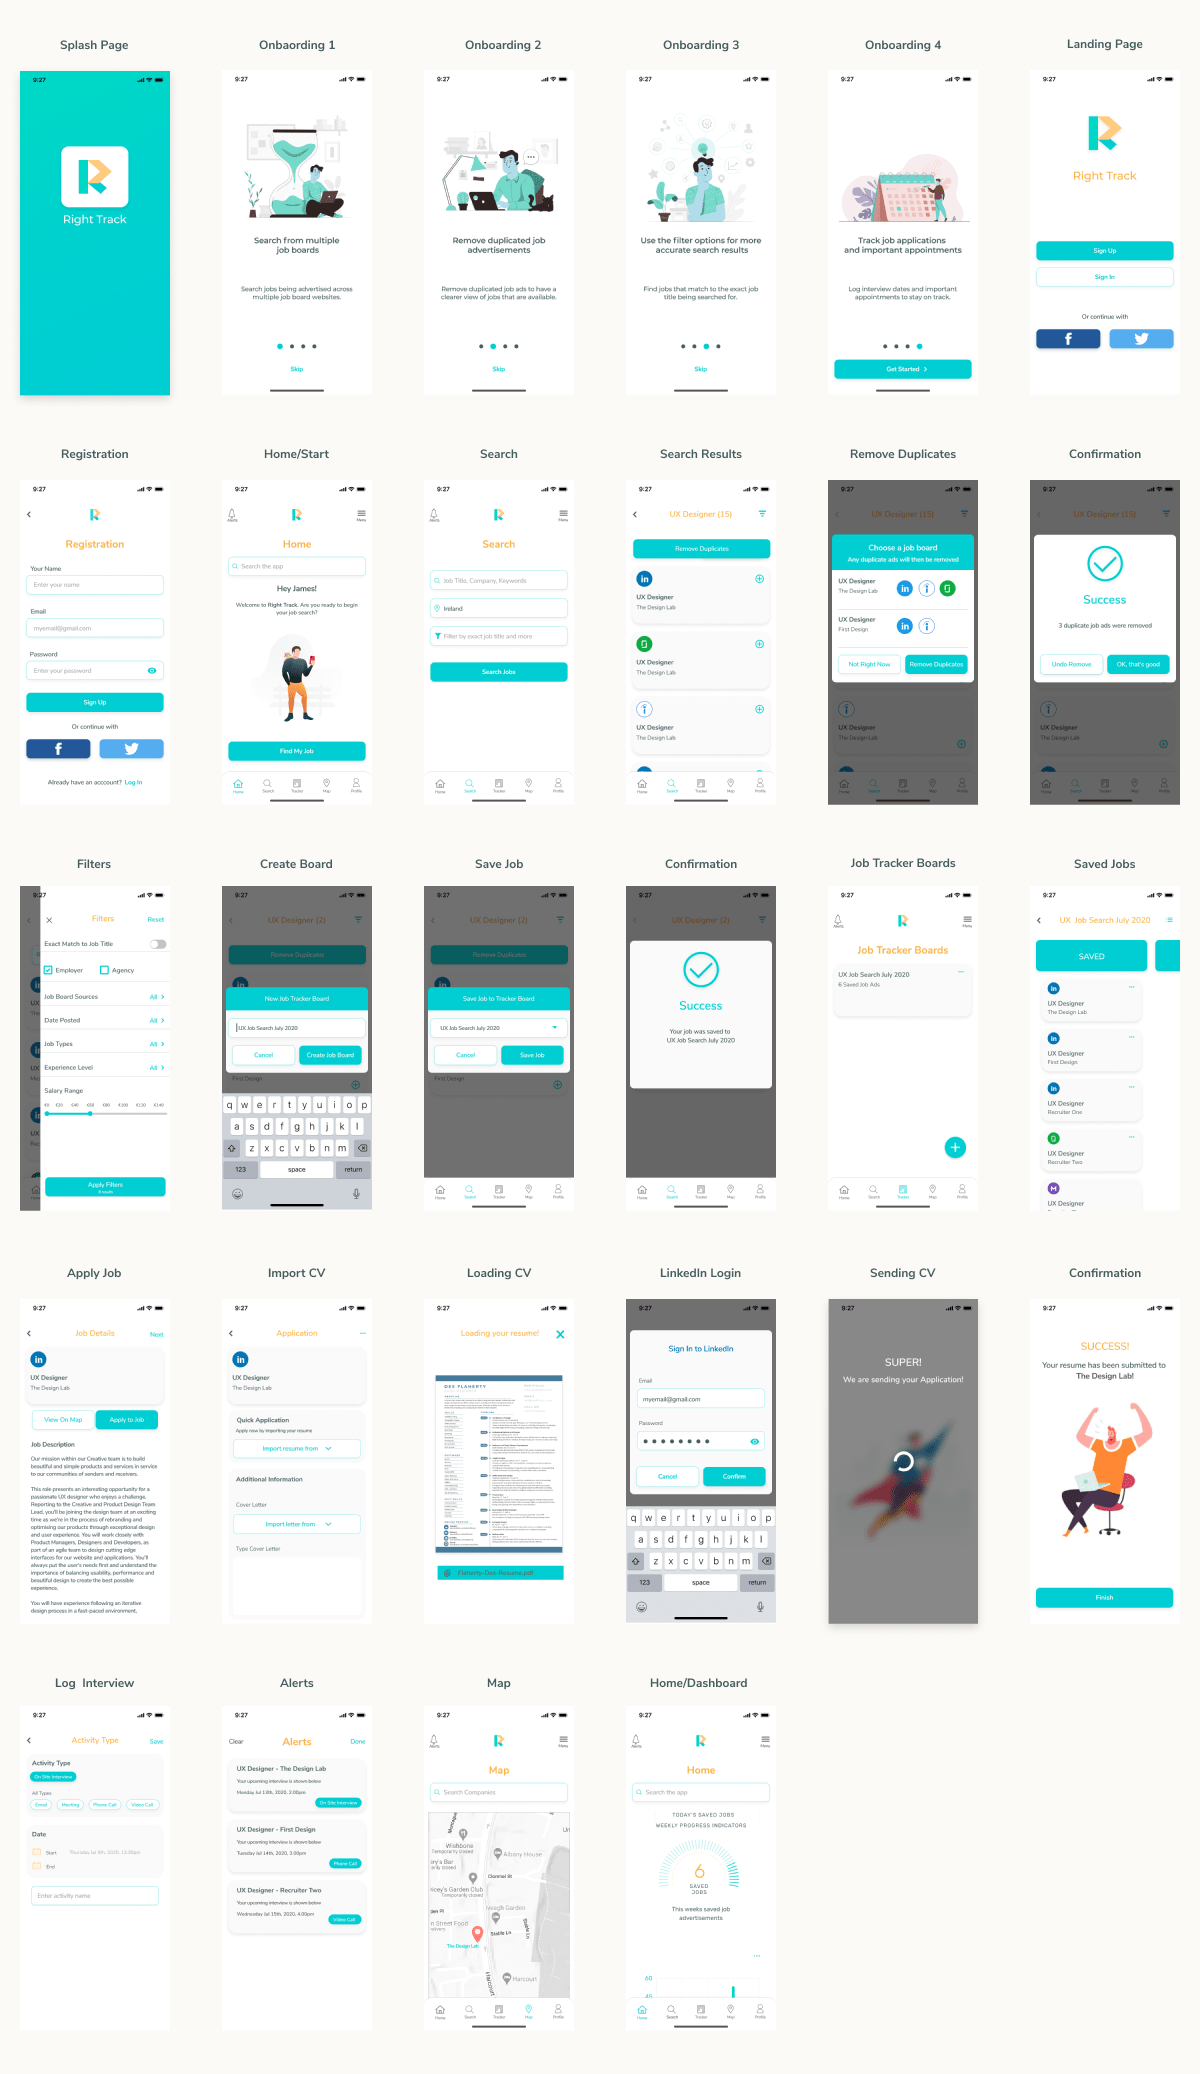
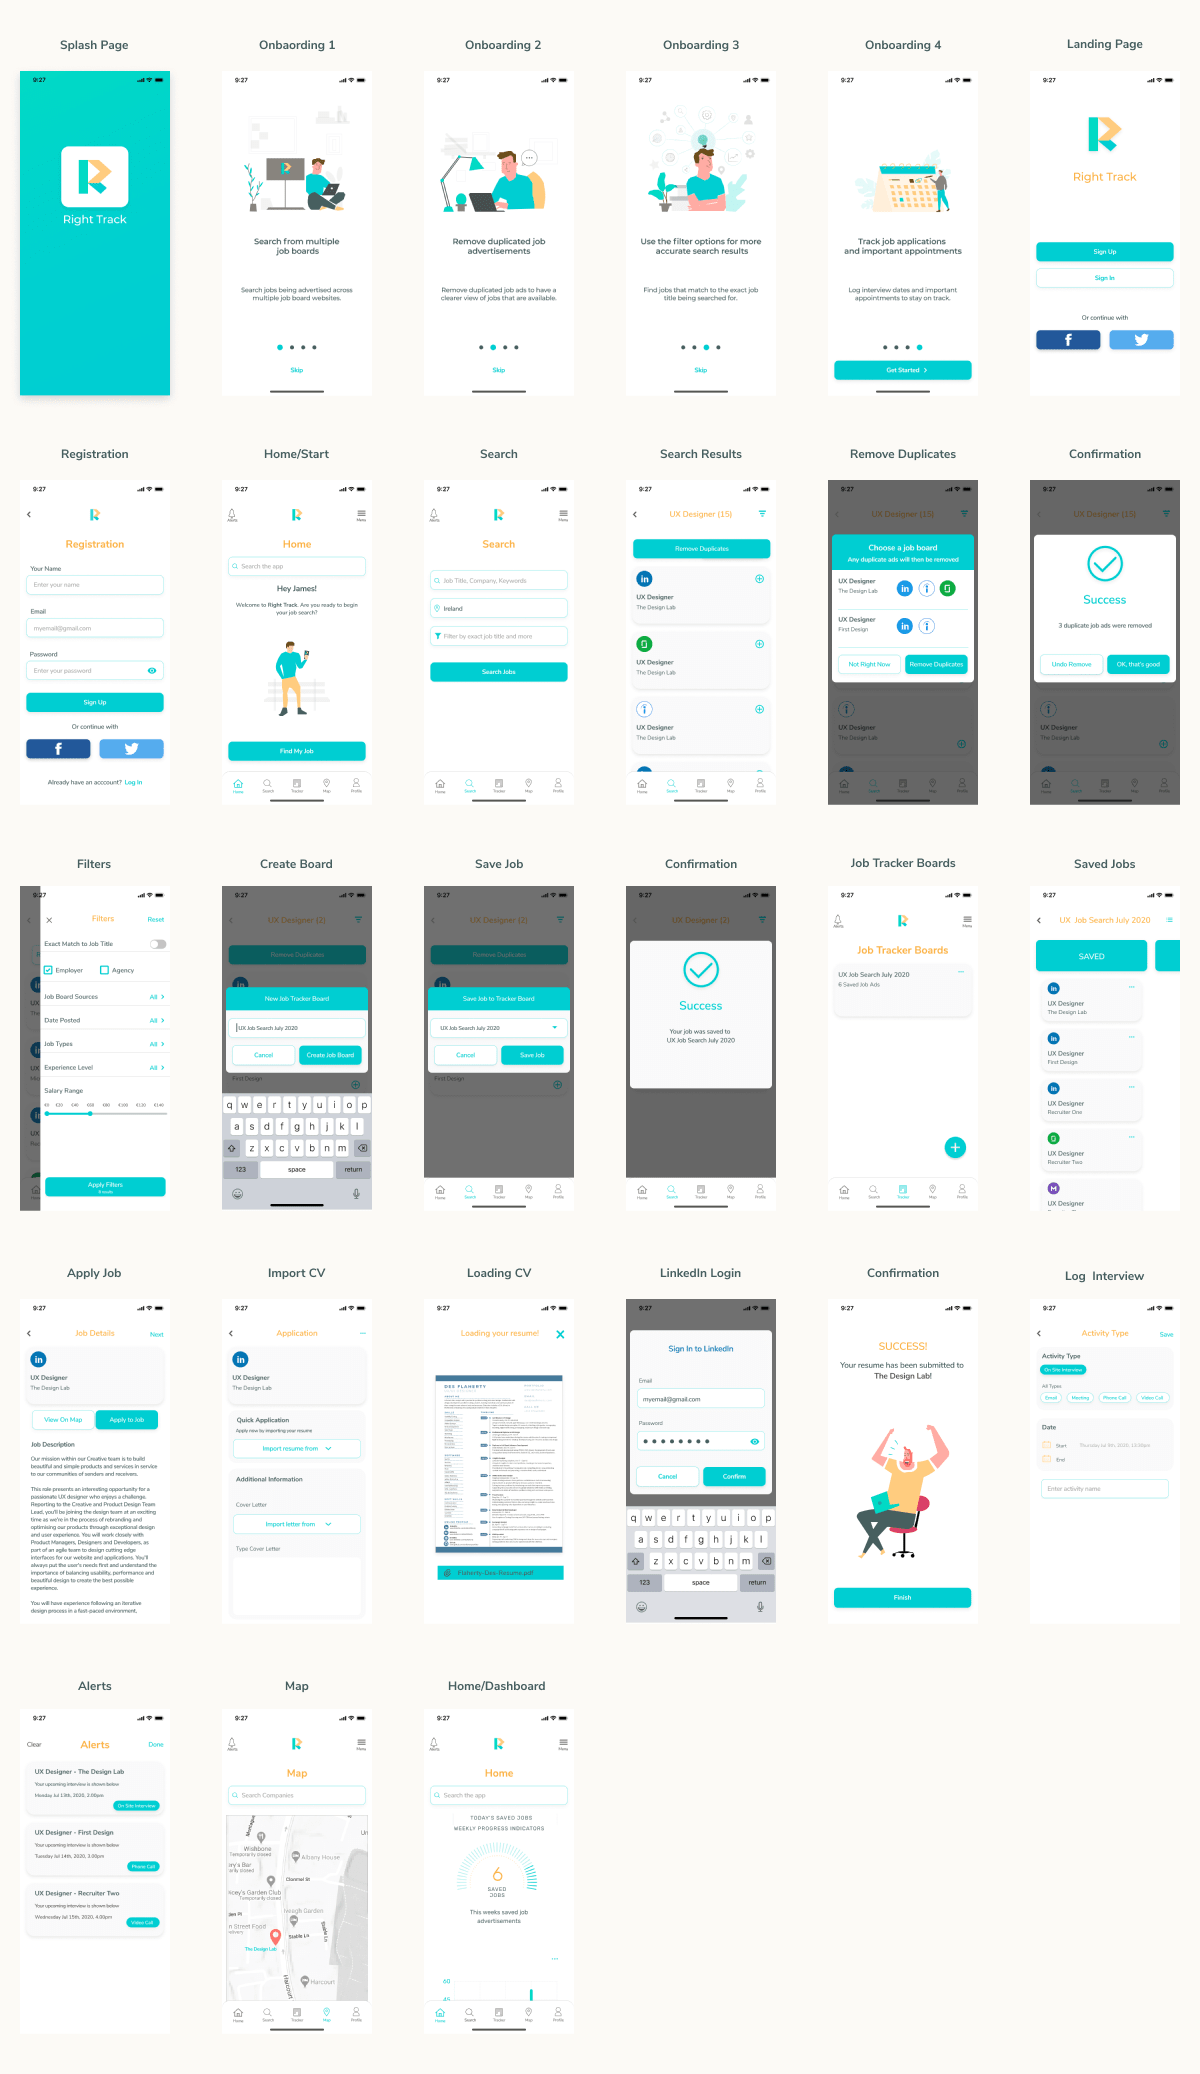
updating illustrations for right track

diff --git a/portfolio/righttrack.html b/portfolio/righttrack.html
@@ -847,7 +847,7 @@ I designed the customer experience map for one of the personas I had created - i
 	  	     <div class="col-xs-12   image-padding table-top-padding">
 	         
 	          
-	  	     <img src="../assets/images/ALL_Wireframes_BEFORE-min.png" style="background-color:#FFF; " class="img-responsive" alt="Hi-Fi Wireframes">
+	  	     <img src="../assets/images/HighFi_Wireframes_BEFORE-min.png" style="background-color:#FFF; " class="img-responsive" alt="Hi-Fi Wireframes">
 	  	     
 	  	    </div>       
                       
@@ -925,7 +925,7 @@ that the user can perform.
 	  	   
 	  	     
 	  	    <div class="col-xs-6 col-sm-3 col-md-3 col-lg-3   image-padding table-top-padding">
-	  	          <div class="portfolio-detail-body"><b><center>Jobs Search (Before Testing)</center></b>
+	  	          <div class="portfolio-detail-body"><b><center>Job Search (Before Testing)</center></b>
 	  	     </div>
            <img src="../assets/images/Search_Agencies_Added_Back.png" style="background-color:#FFF; border:1px solid lightgrey" class="img-responsive" alt="Usability testing cards before">
 	  	  </div>
@@ -1012,14 +1012,14 @@ The border has been removed from the cards, and the job title font colour has be
 	  	      
 	  	              
                       <div class="col-xs-6 col-sm-3 col-md-3 col-lg-3  image-padding table-top-padding">
-                 <div class="portfolio-detail-body"><b><center>Job Tracker (Before Testing)</center></b></div>
+                 <div class="portfolio-detail-body"><b><center> Tracker (Before Testing)</center></b></div>
            <img src="../assets/images/Kanban_board_before.png" style="background-color:#FFF; border:1px solid lightgrey" class="img-responsive" alt="Usability testing sign in before">
      
         </div>
         
         
            <div class="col-xs-6 col-sm-3 col-md-3 col-lg-3   image-padding table-top-padding">
-            <div class="portfolio-detail-body"><b><center>Job Tracker (After Testing)</center></b></div>
+            <div class="portfolio-detail-body"><b><center> Tracker (After Testing)</center></b></div>
              <img src="../assets/images/Kanban_board_After.png" style="background-color:#FFF; border:1px solid lightgrey" class="img-responsive" alt="Usability testing sign in before">
      
         </div>    
